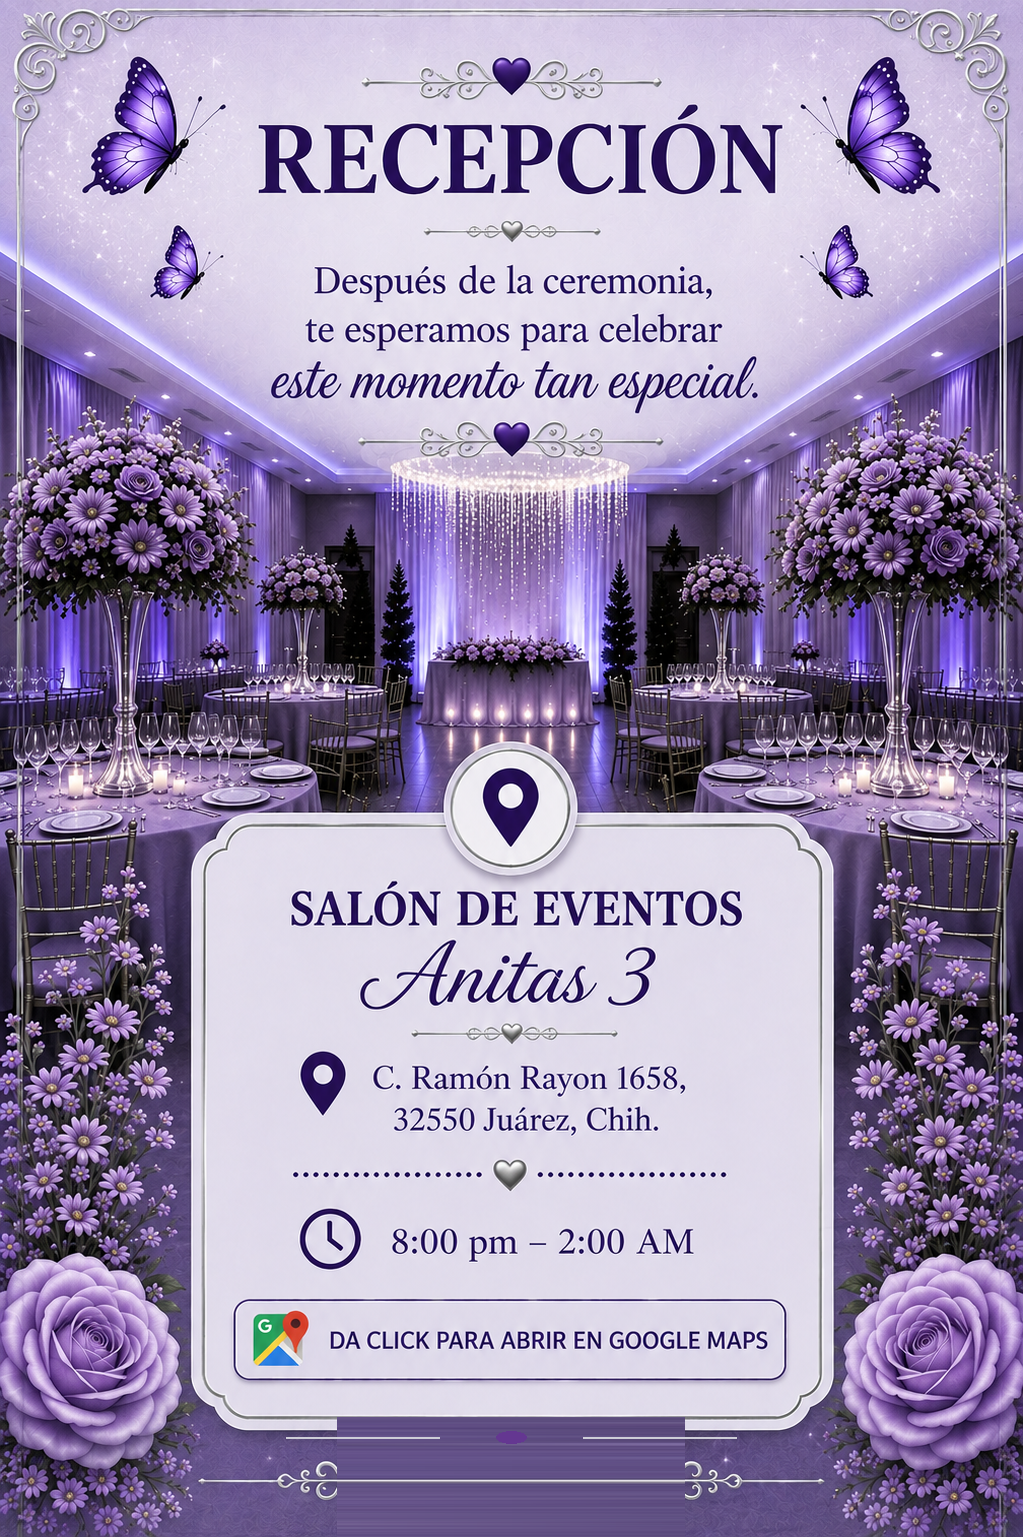
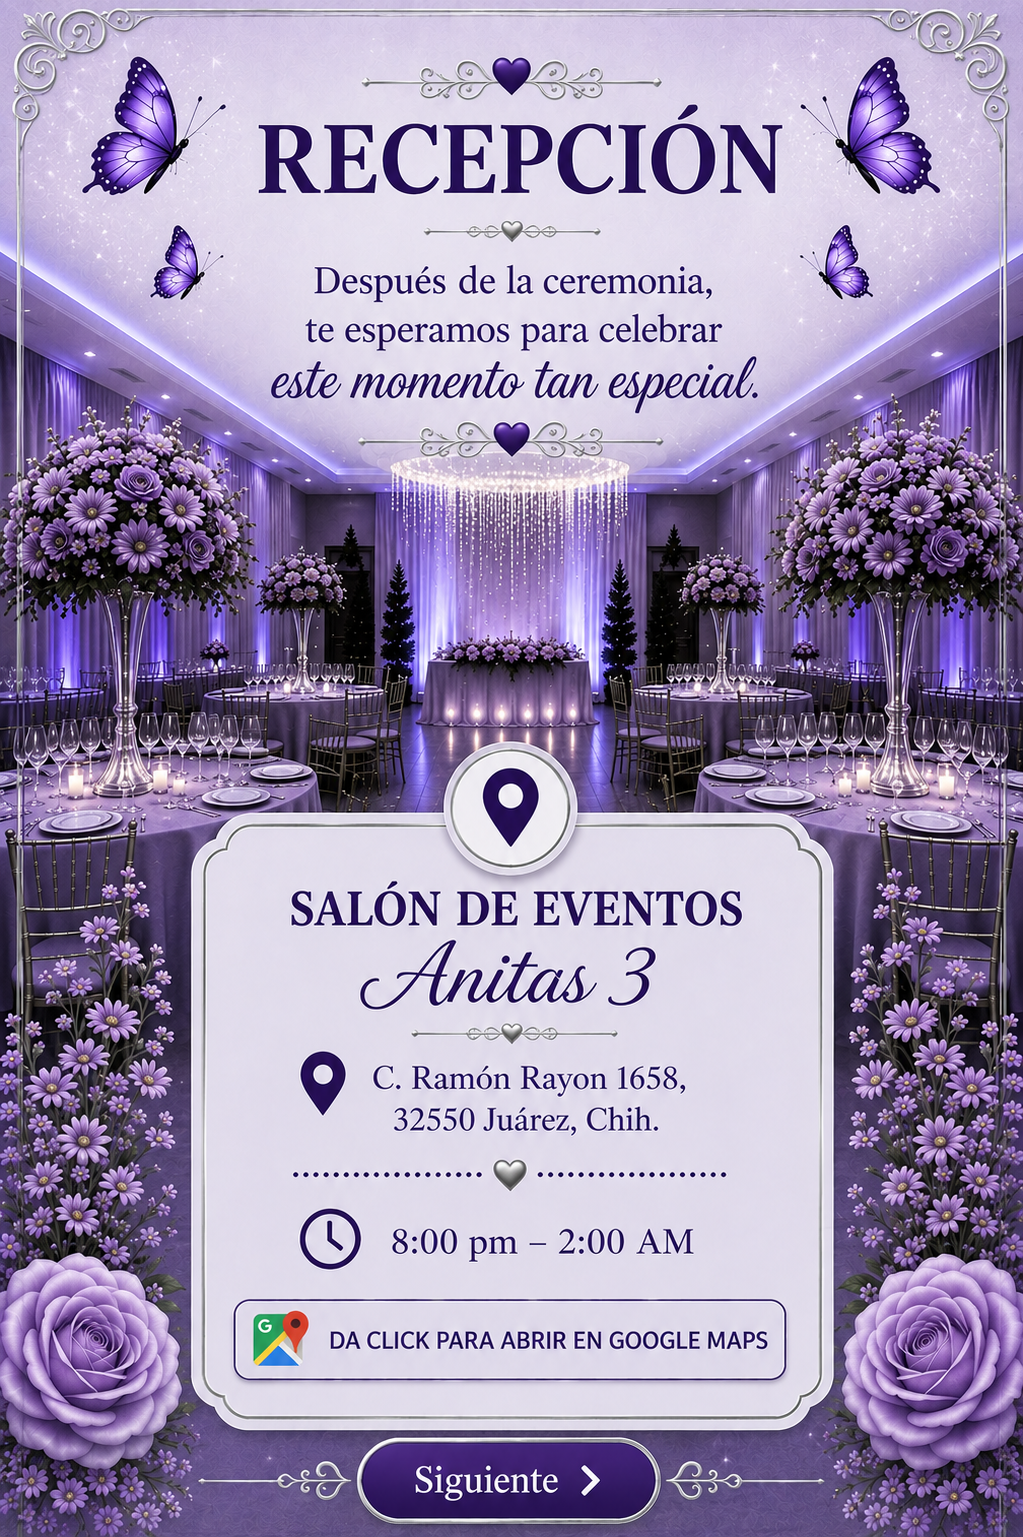
Add files via upload

Changed region(s): [[0.3333, 0.9057, 0.6667, 0.9993]]

diff --git a/index.html b/index.html
@@ -145,28 +145,8 @@ background:rgba(38,20,54,.95);color:#fff;text-align:center;z-index:20}
   background-repeat:no-repeat!important;
   background-position:center!important;
 }
-#slide6 #maps6{
-  position:absolute!important;
-  z-index:100!important;
-  left:50%!important;
-  top:88%!important;
-  width:48%!important;
-  height:7%!important;
-  transform:translate(-50%,-50%)!important;
-  background:transparent!important;
-  border:0!important;
-  padding:0!important;
-  margin:0!important;
-  cursor:pointer!important;
-  display:block!important;
-}
-#slide6 #next6{
-  position:absolute!important;
-  z-index:30!important;
-  left:50%!important;
-  bottom:8px!important;
-  transform:translateX(-50%)!important;
-}
+
+
 </style>
 
 <style id="slide7-dress-code">
@@ -221,6 +201,46 @@ background:rgba(38,20,54,.95);color:#fff;text-align:center;z-index:20}
 
 <style id="slide1-navigation-fix">
 #slide1 #next1{display:none!important;pointer-events:none!important}
+</style><style id="reception-final-position">
+/* Google Maps: invisible clickable area exactly over the printed Maps label. */
+
+/* Only the real HTML navigation button is visible and fully inside the screen. */
+
+</style><style id="reception-google-maps-button">
+
+</style><style id="reception-new-artwork-hotspots">
+#slide6 #maps6{
+  position:absolute!important;
+  z-index:10000!important;
+  left:50%!important;
+  top:84.5%!important;
+  width:54%!important;
+  height:6.5%!important;
+  transform:translate(-50%,-50%)!important;
+  display:block!important;
+  background:transparent!important;
+  border:0!important;
+  padding:0!important;
+  margin:0!important;
+  cursor:pointer!important;
+}
+#slide6 #next6{
+  position:absolute!important;
+  z-index:10001!important;
+  left:50%!important;
+  bottom:2.2%!important;
+  top:auto!important;
+  width:36%!important;
+  height:6%!important;
+  transform:translateX(-50%)!important;
+  display:block!important;
+  background:transparent!important;
+  border:0!important;
+  padding:0!important;
+  margin:0!important;
+  color:transparent!important;
+  cursor:pointer!important;
+}
 </style></head>
 <body>
 
@@ -264,7 +284,7 @@ background:rgba(38,20,54,.95);color:#fff;text-align:center;z-index:20}
 <section id="slide6" class="slide">
   <div id="slide6Card" aria-label="Recepción"></div>
   <a id="maps6" href="https://www.google.com/maps/search/?api=1&query=Sal%C3%B3n%20de%20Eventos%20Anitas%203%2C%20C.%20Ram%C3%B3n%20Rayon%201658%2C%2032550%20Ju%C3%A1rez%2C%20Chihuahua%2C%20M%C3%A9xico" target="_blank" rel="noopener" aria-label="Abrir Google Maps"></a>
-  <button type="button" id="next6" class="nav" onclick="goToSlide(6)">Siguiente</button>
+  <button type="button" id="next6" class="nav" onclick="goToSlide(6)" aria-label="Siguiente"></button>
 </section>
 
 <section id="slide7" class="slide">
@@ -381,17 +401,7 @@ document.addEventListener('DOMContentLoaded',function(){
 </html>
 
 <style id="urgent-functional-fix">
-#slide6 #next6{
-  display:block!important;
-  position:absolute!important;
-  z-index:99999!important;
-  left:50%!important;
-  bottom:8px!important;
-  top:auto!important;
-  transform:translateX(-50%)!important;
-  pointer-events:auto!important;
-  cursor:pointer!important;
-}
+
 </style>
 <script id="urgent-countdown-fix">
 (function(){
@@ -422,30 +432,6 @@ document.addEventListener('DOMContentLoaded',function(){
 </script>
 
 <style id="reception-final-clean">
-#slide6 #maps6{
-  position:absolute!important;
-  z-index:100!important;
-  left:50%!important;
-  top:80%!important;
-  width:42%!important;
-  height:6%!important;
-  transform:translate(-50%,-50%)!important;
-  background:transparent!important;
-  border:0!important;
-  padding:0!important;
-  margin:0!important;
-  cursor:pointer!important;
-  display:block!important;
-}
-#slide6 #next6{
-  display:block!important;
-  position:absolute!important;
-  z-index:9999!important;
-  left:50%!important;
-  bottom:18px!important;
-  top:auto!important;
-  transform:translateX(-50%)!important;
-  cursor:pointer!important;
-  pointer-events:auto!important;
-}
+
+
 </style>
